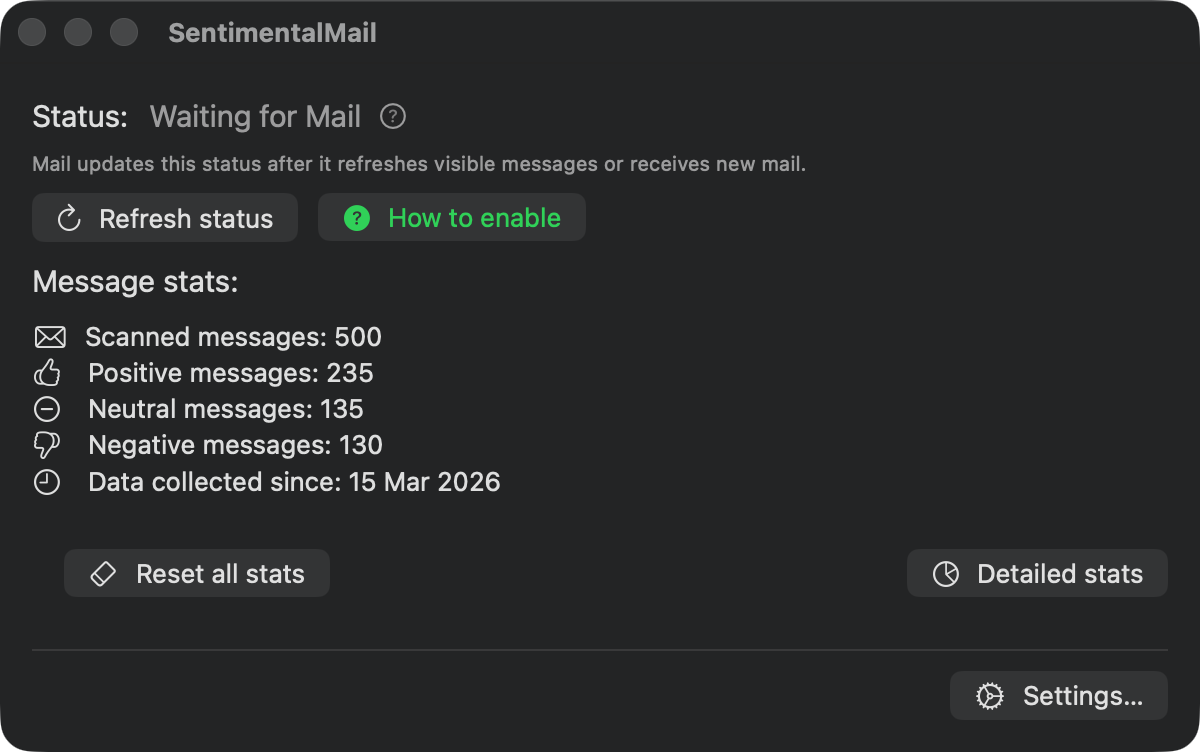
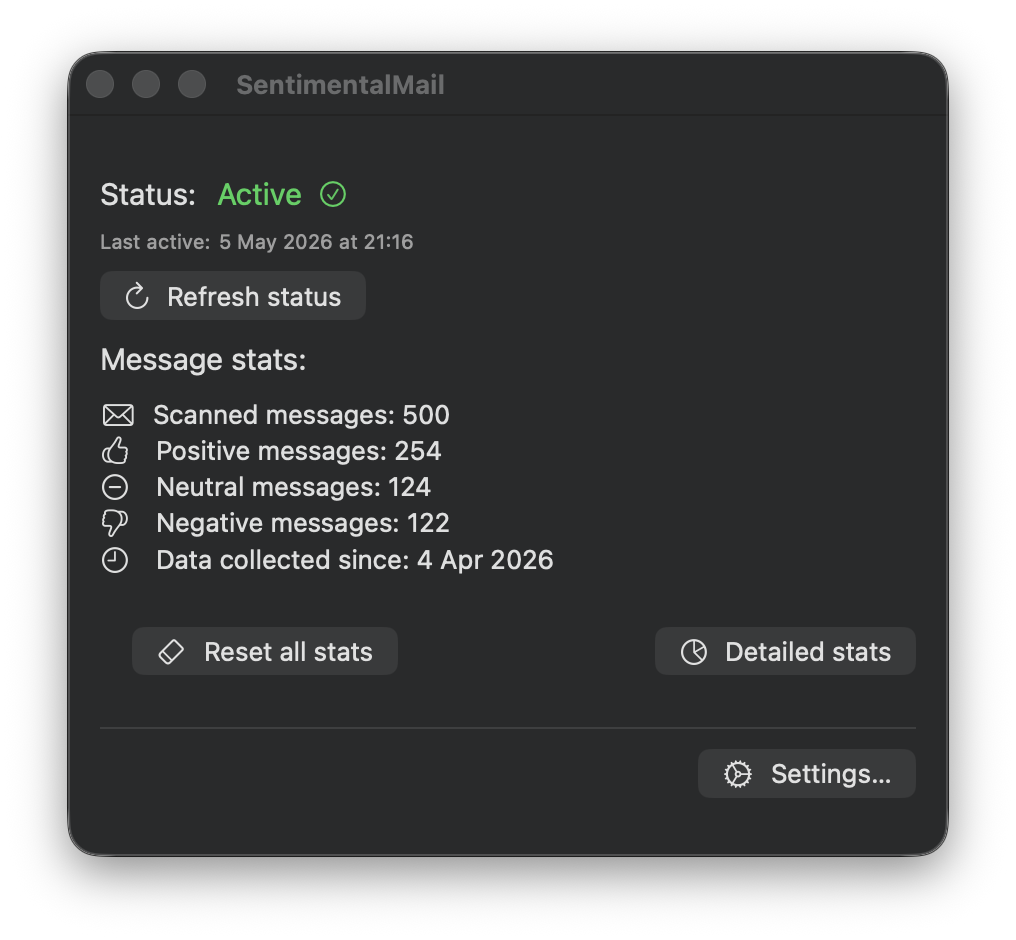
Update Website Screenshots
Refresh the Sentimentalmail website with current light and dark app screenshots and wire showcase images through the existing theme-aware image swapping.

Update image dimensions for the refreshed assets.

Verification:
- Verified all referenced image paths exist locally
- Checked rendered light/dark theme swapping in the in-app browser before commit

diff --git a/index.html b/index.html
@@ -103,8 +103,8 @@
                 src="images/hero-status-dark-2026.png"
                 data-light-src="images/hero-status-light-2026.png"
                 data-dark-src="images/hero-status-dark-2026.png"
-                width="1200"
-                height="752"
+                width="1016"
+                height="940"
                 alt="SentimentalMail status window on macOS showing current scan status, message counts, and quick actions"
                 loading="eager"
               />
@@ -168,36 +168,42 @@
         <div class="showcase-grid" aria-label="Updated app screenshots">
           <figure class="showcase-shot">
             <img
-              src="images/labels-settings-2026.png"
+              src="images/labels-settings-dark-2026.png"
+              data-light-src="images/labels-settings-light-2026.png"
+              data-dark-src="images/labels-settings-dark-2026.png"
               alt="SentimentalMail labels settings window with marker styles, score thresholds, and reset controls"
               loading="lazy"
               decoding="async"
-              width="1200"
-              height="1004"
+              width="1348"
+              height="1160"
             />
             <figcaption>Fine-tune label styles, score thresholds, and scoring controls directly inside the app.</figcaption>
           </figure>
 
           <figure class="showcase-shot">
             <img
-              src="images/stats-chart-2026.png"
+              src="images/stats-chart-dark-2026.png"
+              data-light-src="images/stats-chart-light-2026.png"
+              data-dark-src="images/stats-chart-dark-2026.png"
               alt="SentimentalMail stats window showing weekly positive, neutral, and negative message counts"
               loading="lazy"
               decoding="async"
-              width="1200"
-              height="800"
+              width="1936"
+              height="1440"
             />
             <figcaption>Review weekly message trends with a date-range picker and clear positive, neutral, and negative counts.</figcaption>
           </figure>
 
           <figure class="showcase-shot showcase-shot--wide">
             <img
-              src="images/filters-settings-2026.png"
+              src="images/filters-settings-dark-2026.png"
+              data-light-src="images/filters-settings-light-2026.png"
+              data-dark-src="images/filters-settings-dark-2026.png"
               alt="SentimentalMail filters window showing include mode and sender patterns for filtering messages"
               loading="lazy"
               decoding="async"
-              width="1100"
-              height="964"
+              width="1236"
+              height="1100"
             />
             <figcaption>Include or exclude sender patterns so sentiment scoring stays focused on the messages you care about.</figcaption>
           </figure>
